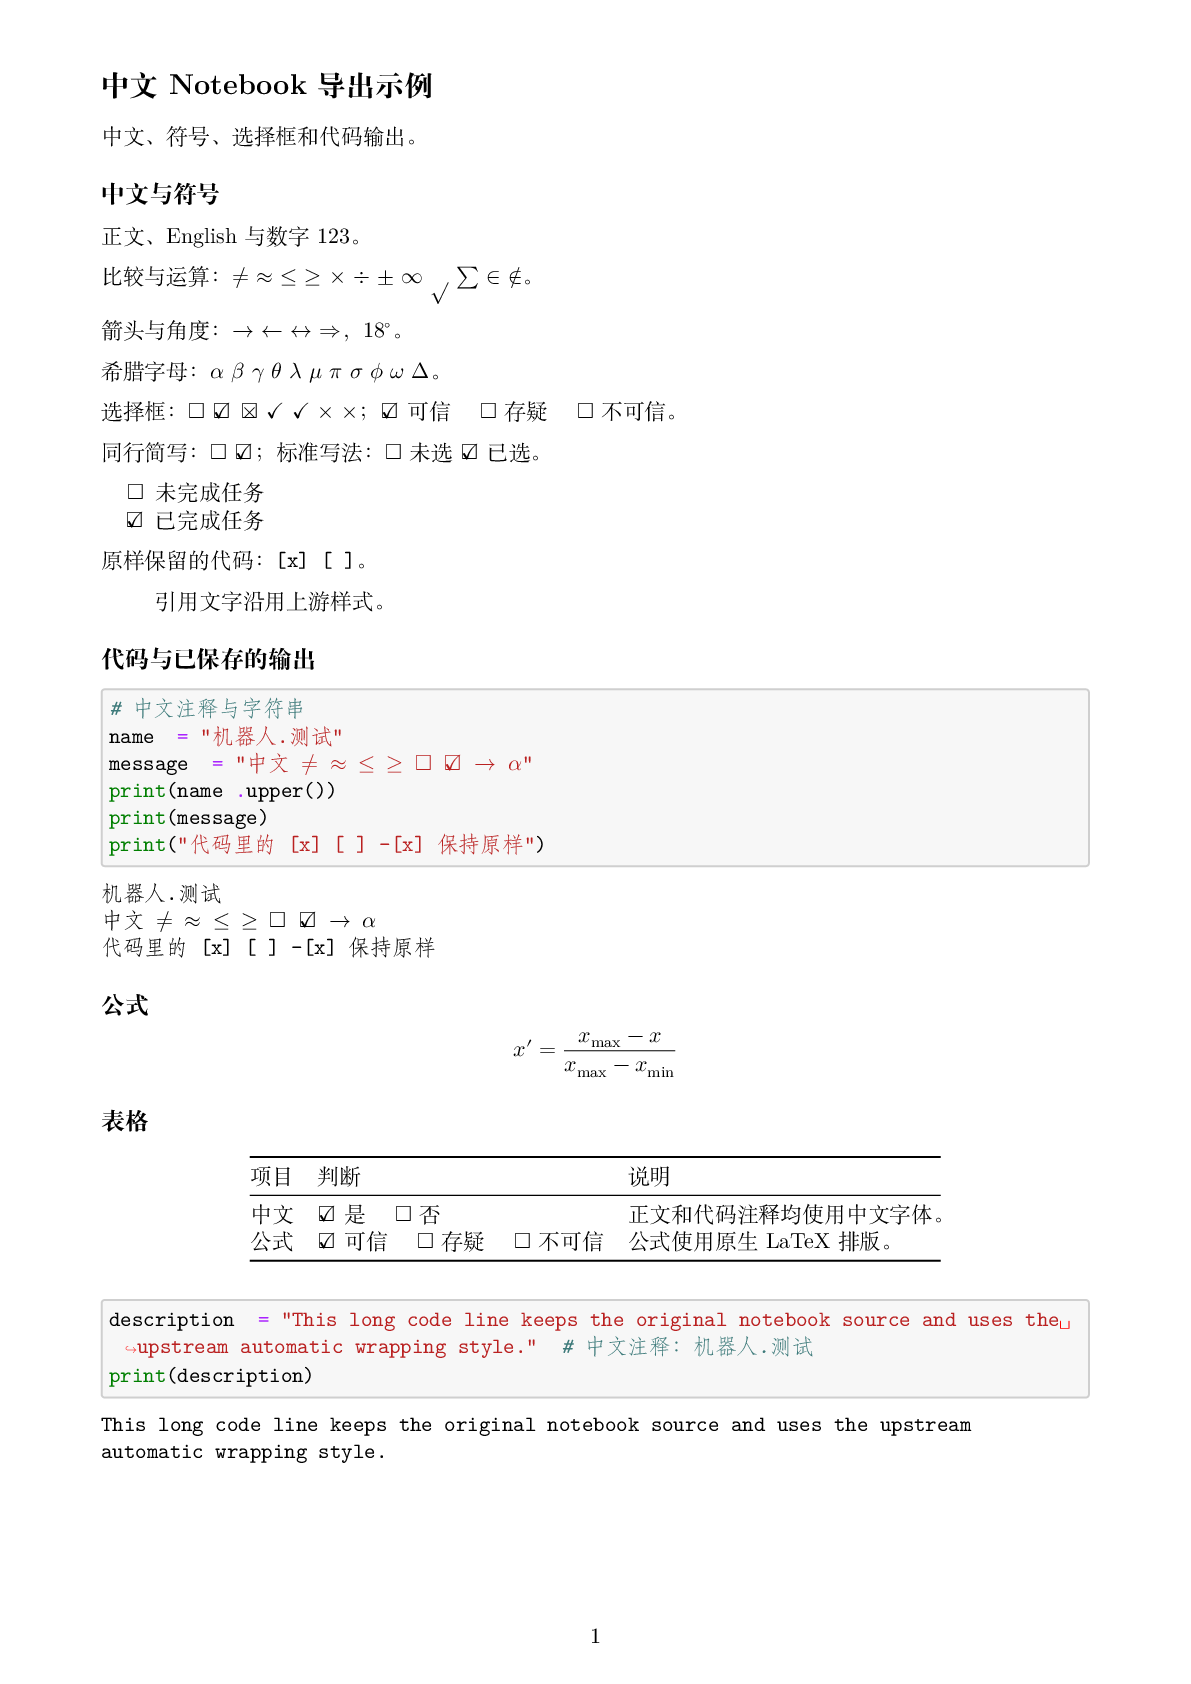
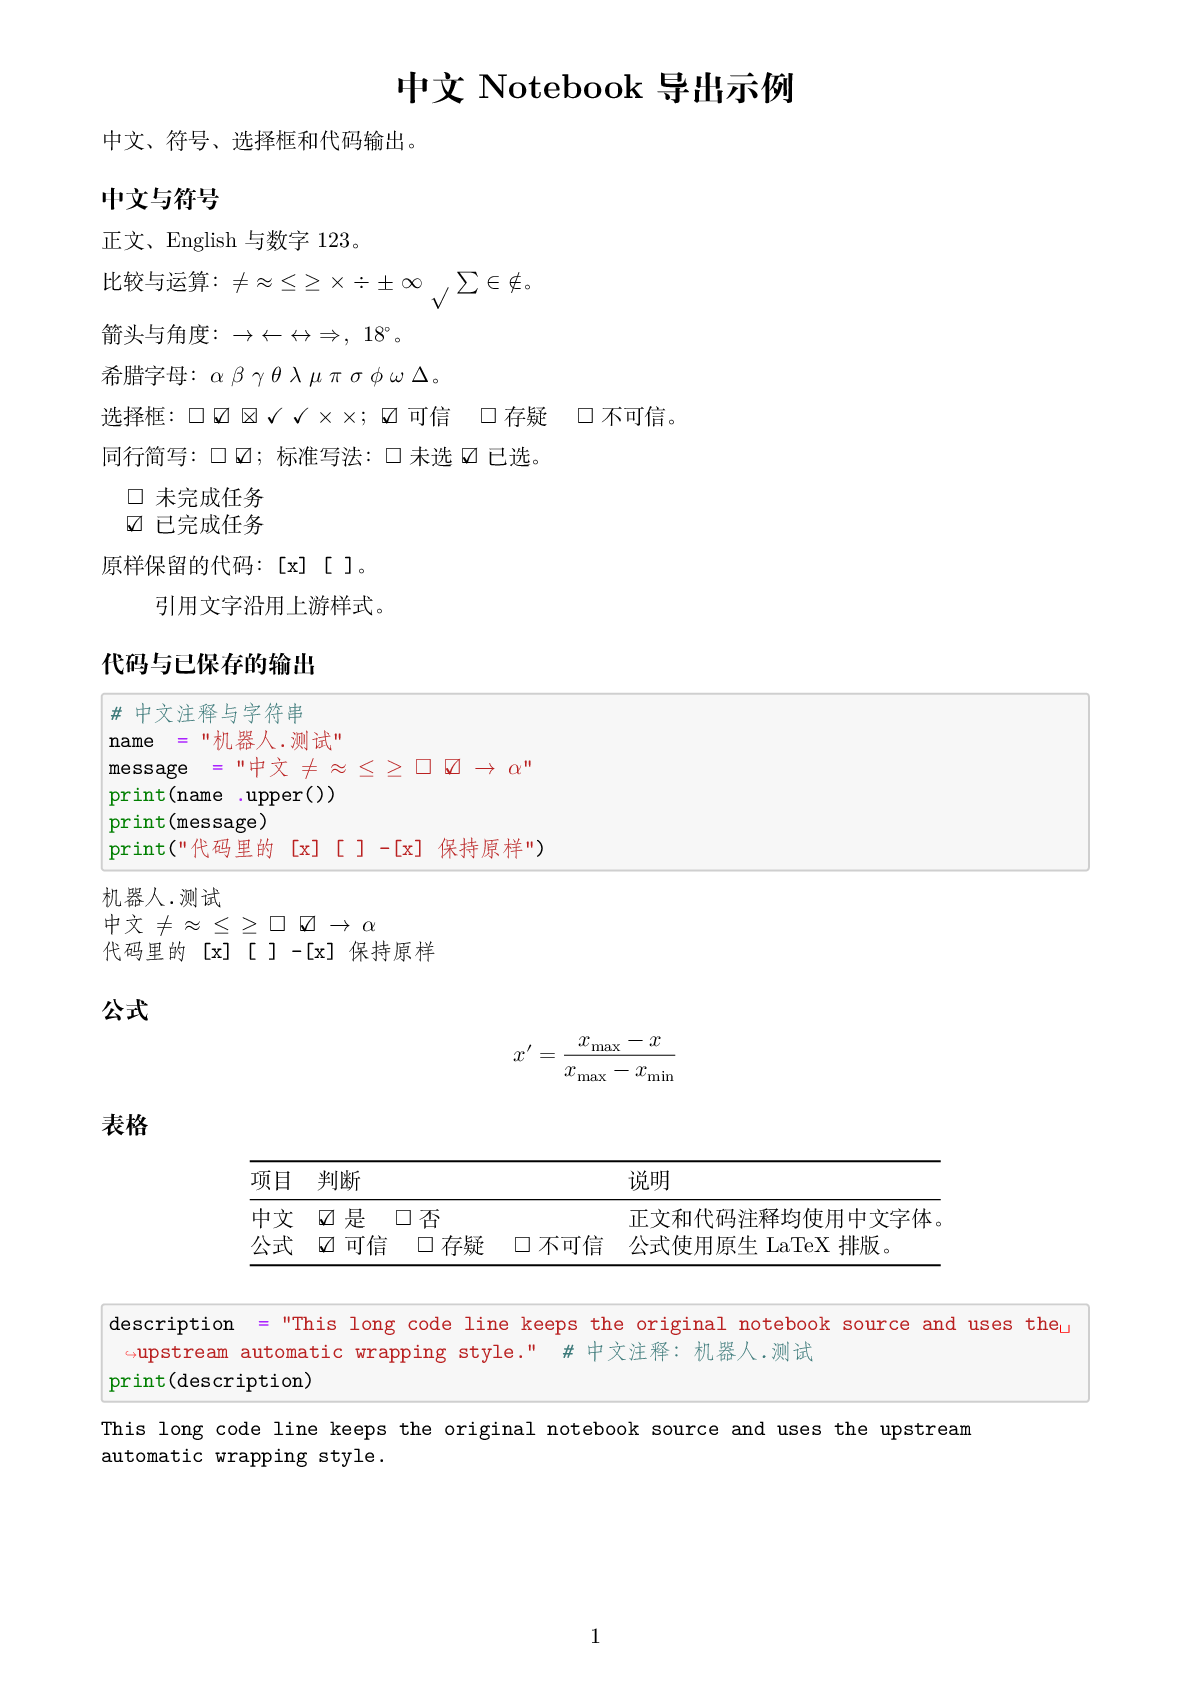
Render Markdown H1 headings as centered article titles

diff --git a/README.md b/README.md
@@ -54,7 +54,9 @@ jupyter nbconvert examples/chinese.ipynb --to pdf --template latex_authentic_zh
 
 输出为 `examples/chinese.pdf`，使用 Notebook 已保存的结果，不运行代码。
 
-总标题直接写成 `# 报告标题`。正文和表格支持 `[x]` → ☑、`[ ]` → ☐，也支持同一行写 `-[ ] -[x]`。代码和公式保持原样。
+总标题直接写成 `# 报告标题`，导出 PDF 时会显示为居中、加大字号、加粗且不带编号的文章标题；`##` 及以下标题保留正文层级样式。左侧编号和上方编号两种布局均适用。
+
+正文和表格支持 `[x]` → ☑、`[ ]` → ☐，也支持同一行写 `-[ ] -[x]`。代码和公式保持原样。
 
 ## 默认模板
 
